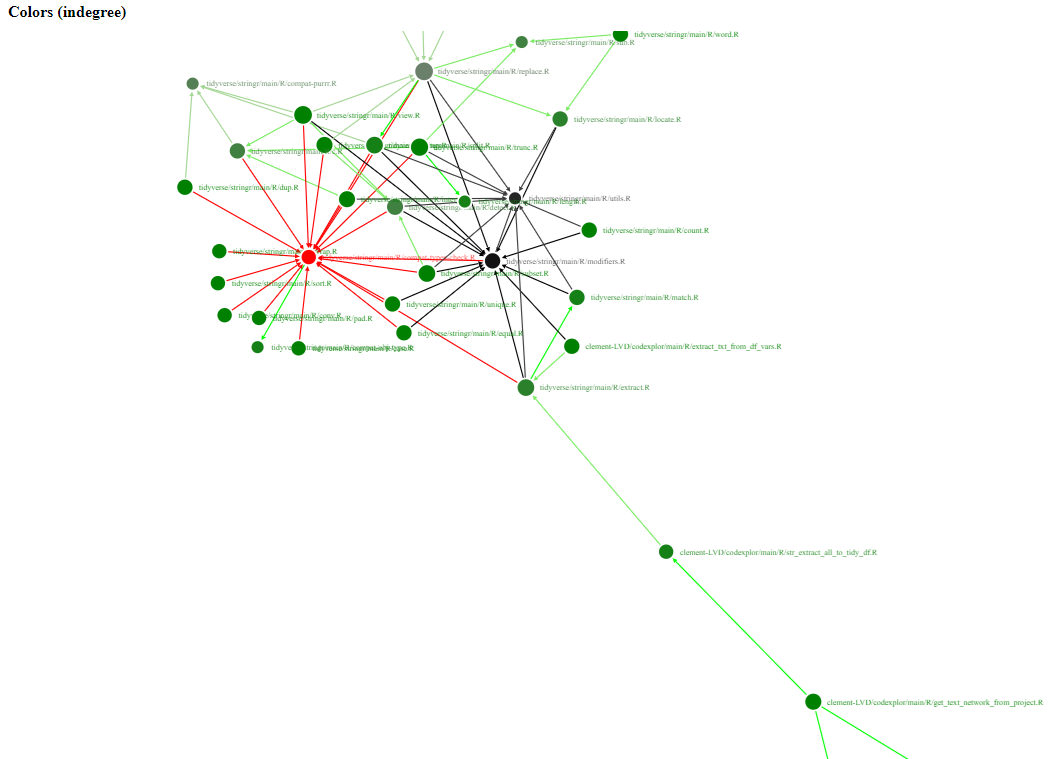
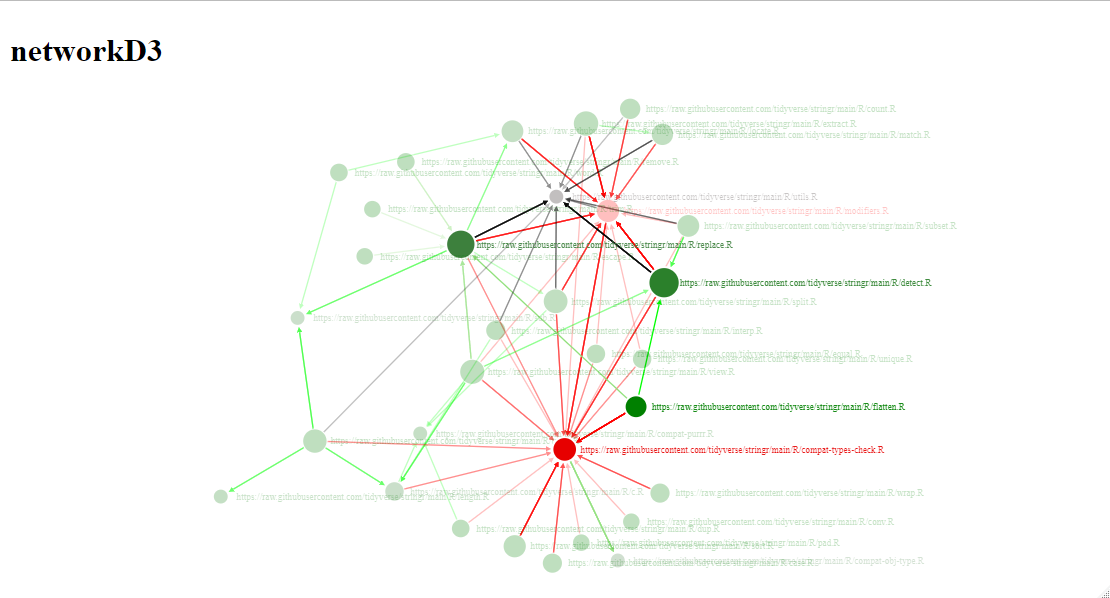
.

diff --git a/man/figures/network_codexplor_fn.html b/man/figures/network_codexplor_fn.html
@@ -1231,11 +1231,11 @@ return function(){for(var n=0,e=0;e<t;++e)n+=Math.random();return n}},um=functio
 <div id="htmlwidget_container">
   <h1>codexplor</h1>
   <h2>graph of internal dependancies</h2>
-  <div class="forceNetwork html-widget html-fill-item" id="htmlwidget-d9726195d3707a59ed17" style="width:960px;height:500px;"></div>
+  <div class="forceNetwork html-widget html-fill-item" id="htmlwidget-8279cbfcf12992240b6c" style="width:960px;height:500px;"></div>
   <div style="position:floating; top:10px; left:10px; background:white; padding:10px; border:0px;">
   <strong>Colors (indegree)</strong><br></div>
 </div>
-<script type="application/json" data-for="htmlwidget-d9726195d3707a59ed17">{"x":{"links":{"source":[0,9,9,9,9,9,9,9,9,5,5,1,1,1,1,9,0,1,1,0,2,3,4,1,5,2,1,6,7,8,1,9,9,9,9,9,10,9,5,9,10,9,5,9,1,1,0,1,1,1,1,8,1,1,1,1,1,3],"target":[5,10,10,10,10,10,10,10,10,10,10,10,10,10,10,10,10,10,10,1,1,12,13,14,8,15,15,16,17,4,11,18,18,18,18,18,18,18,18,18,18,18,18,18,18,18,18,18,19,3,20,21,6,6,6,6,6,6],"colour":["#00FF00","#FF0000","#FF0000","#FF0000","#FF0000","#FF0000","#FF0000","#FF0000","#FF0000","#FF0000","#FF0000","#FF0000","#FF0000","#FF0000","#FF0000","#FF0000","#FF0000","#FF0000","#FF0000","#80E869","#80E869","#00FF00","#00FF00","#00FF00","#00FF00","#80E869","#80E869","#00FF00","#00FF00","#00FF00","#00FF00","#FF0000","#FF0000","#FF0000","#FF0000","#FF0000","#FF0000","#FF0000","#FF0000","#FF0000","#FF0000","#FF0000","#FF0000","#FF0000","#FF0000","#FF0000","#FF0000","#FF0000","#00FF00","#00FF00","#00FF00","#00FF00","#A4A4A4","#A4A4A4","#A4A4A4","#A4A4A4","#A4A4A4","#A4A4A4"]},"nodes":{"name":["C:/Users/CLEM/Documents/PROJETS_EN_R/codexplor/R/get_doc_network_from_project.R","C:/Users/CLEM/Documents/PROJETS_EN_R/codexplor/R/construct_corpus.R","C:/Users/CLEM/Documents/PROJETS_EN_R/codexplor/doc/vignette_construct_corpus.R","C:/Users/CLEM/Documents/PROJETS_EN_R/codexplor/R/separate_commented_lines.R","C:/Users/CLEM/Documents/PROJETS_EN_R/codexplor/R/get_regex_from_vector.R","C:/Users/CLEM/Documents/PROJETS_EN_R/codexplor/R/add_doc_network_to_corpus.R","C:/Users/CLEM/Documents/PROJETS_EN_R/codexplor/R/utils.R","C:/Users/CLEM/Documents/PROJETS_EN_R/codexplor/R/get_networkd3_from_igraph.R","C:/Users/CLEM/Documents/PROJETS_EN_R/codexplor/R/get_citations_network_from_df.R","C:/Users/CLEM/Documents/PROJETS_EN_R/codexplor/data-raw/construct_thesaurus_sysdata_rda.R","C:/Users/CLEM/Documents/PROJETS_EN_R/codexplor/R/class_constructor.R","C:/Users/CLEM/Documents/PROJETS_EN_R/codexplor/R/lines_metrics.R","C:/Users/CLEM/Documents/PROJETS_EN_R/codexplor/R/find_comments_positions.R","C:/Users/CLEM/Documents/PROJETS_EN_R/codexplor/R/fix_escaping.R","C:/Users/CLEM/Documents/PROJETS_EN_R/codexplor/R/gather_df_lines.R","C:/Users/CLEM/Documents/PROJETS_EN_R/codexplor/R/get_def_regex_by_language.R","C:/Users/CLEM/Documents/PROJETS_EN_R/codexplor/R/get_github_raw_filespath.R","C:/Users/CLEM/Documents/PROJETS_EN_R/codexplor/R/get_igraph_from_df.R","C:/Users/CLEM/Documents/PROJETS_EN_R/codexplor/R/methods_stats_corpus.list.R","C:/Users/CLEM/Documents/PROJETS_EN_R/codexplor/R/readlines_in_df.R","C:/Users/CLEM/Documents/PROJETS_EN_R/codexplor/R/srch_pattern_in_df.R","C:/Users/CLEM/Documents/PROJETS_EN_R/codexplor/R/str_extract_all_to_tidy_df.R"],"group":[0,2,0,1,1,1,6,0,1,0,18,1,1,1,1,2,1,1,17,1,1,1],"nodesize":[4,20,2,2,1,5,1,1,2,18,2,0,0,0,0,0,0,0,0,0,0,0]},"options":{"NodeID":"name","Group":"indegree","colourScale":"d3.scaleLinear().domain([0, 6, 12, 18]).range([\"green\", \"grey\", \"black\", \"red\"]).clamp(true);","fontSize":7,"fontFamily":"serif","clickTextSize":17.5,"linkDistance":50,"linkWidth":"function(d) { return 1; }","charge":-200,"opacity":1,"zoom":true,"legend":false,"arrows":true,"nodesize":true,"radiusCalculation":" Math.sqrt(d.nodesize)+6","bounded":true,"opacityNoHover":0.9,"clickAction":null}},"evals":[],"jsHooks":[]}</script>
-<script type="application/htmlwidget-sizing" data-for="htmlwidget-d9726195d3707a59ed17">{"viewer":{"width":450,"height":350,"padding":10,"fill":true},"browser":{"width":960,"height":500,"padding":10,"fill":true}}</script>
+<script type="application/json" data-for="htmlwidget-8279cbfcf12992240b6c">{"x":{"links":{"source":[0,0,2,3,1,4,1,5,6,7,1,0,1,1,1,7,1,1,2,1,1,1],"target":[4,1,10,11,12,7,13,14,15,3,9,8,16,2,17,18,5,5,5,5,5,5],"colour":["#9CDA8A","#9CDA8A","#9CDA8A","#9CDA8A","#9CDA8A","#9CDA8A","#9CDA8A","#9CDA8A","#9CDA8A","#9CDA8A","#9CDA8A","#9CDA8A","#9CDA8A","#9CDA8A","#9CDA8A","#9CDA8A","#FF0000","#FF0000","#FF0000","#FF0000","#FF0000","#FF0000"]},"nodes":{"name":["C:/Users/CLEM/Documents/PROJETS_EN_R/codexplor/R/get_doc_network_from_project.R","C:/Users/CLEM/Documents/PROJETS_EN_R/codexplor/R/construct_corpus.R","C:/Users/CLEM/Documents/PROJETS_EN_R/codexplor/R/separate_commented_lines.R","C:/Users/CLEM/Documents/PROJETS_EN_R/codexplor/R/get_regex_from_vector.R","C:/Users/CLEM/Documents/PROJETS_EN_R/codexplor/R/add_doc_network_to_corpus.R","C:/Users/CLEM/Documents/PROJETS_EN_R/codexplor/R/utils.R","C:/Users/CLEM/Documents/PROJETS_EN_R/codexplor/R/get_networkd3_from_igraph.R","C:/Users/CLEM/Documents/PROJETS_EN_R/codexplor/R/get_citations_network_from_df.R","C:/Users/CLEM/Documents/PROJETS_EN_R/codexplor/R/methods_stats_corpus.list.R","C:/Users/CLEM/Documents/PROJETS_EN_R/codexplor/R/lines_metrics.R","C:/Users/CLEM/Documents/PROJETS_EN_R/codexplor/R/find_comments_positions.R","C:/Users/CLEM/Documents/PROJETS_EN_R/codexplor/R/fix_escaping.R","C:/Users/CLEM/Documents/PROJETS_EN_R/codexplor/R/gather_df_lines.R","C:/Users/CLEM/Documents/PROJETS_EN_R/codexplor/R/get_def_regex_by_language.R","C:/Users/CLEM/Documents/PROJETS_EN_R/codexplor/R/get_github_raw_filespath.R","C:/Users/CLEM/Documents/PROJETS_EN_R/codexplor/R/get_igraph_from_df.R","C:/Users/CLEM/Documents/PROJETS_EN_R/codexplor/R/readlines_in_df.R","C:/Users/CLEM/Documents/PROJETS_EN_R/codexplor/R/srch_pattern_in_df.R","C:/Users/CLEM/Documents/PROJETS_EN_R/codexplor/R/str_extract_all_to_tidy_df.R"],"group":[0,1,1,1,1,6,0,1,1,1,1,1,1,1,1,1,1,1,1],"nodesize":[3,11,2,1,1,1,1,2,0,0,0,0,0,0,0,0,0,0,0]},"options":{"NodeID":"name","Group":"indegree","colourScale":"d3.scaleLinear().domain([0, 2, 4, 6]).range([\"green\", \"grey\", \"black\", \"red\"]).clamp(true);","fontSize":7,"fontFamily":"serif","clickTextSize":17.5,"linkDistance":50,"linkWidth":"function(d) { return 1; }","charge":-200,"opacity":1,"zoom":true,"legend":false,"arrows":true,"nodesize":true,"radiusCalculation":" Math.sqrt(d.nodesize)+6","bounded":true,"opacityNoHover":0.9,"clickAction":null}},"evals":[],"jsHooks":[]}</script>
+<script type="application/htmlwidget-sizing" data-for="htmlwidget-8279cbfcf12992240b6c">{"viewer":{"width":450,"height":350,"padding":10,"fill":true},"browser":{"width":960,"height":500,"padding":10,"fill":true}}</script>
 </body>
 </html>

diff --git a/README.md b/README.md
@@ -31,8 +31,8 @@ devtools::install_github("clement-LVD/codexplor")
 ```
 
 The default settings of `codexplor` are optimized for analyzing a
-project in ![R](https://img.shields.io/badge/R-black) language. Planned
-languages are : R, Python, JavaScript
+project in ![R](https://img.shields.io/badge/R-black) language.
+Supported languages are : R, Python, JavaScript
 
 ------------------------------------------------------------------------
 
@@ -46,6 +46,8 @@ library(codexplor)
 
  # 1) Construct a corpus and a Citations network
   corpus <- get_doc_network_from_project(folders = getwd(), languages = "R" )
+#> 
+#> Content is fixed by adding 2 closing separator(s) !
    # return a corpus.list object with 4 data.frames :
   # => 2 corpus.lines
   # => 1 corpus.nodelist 
